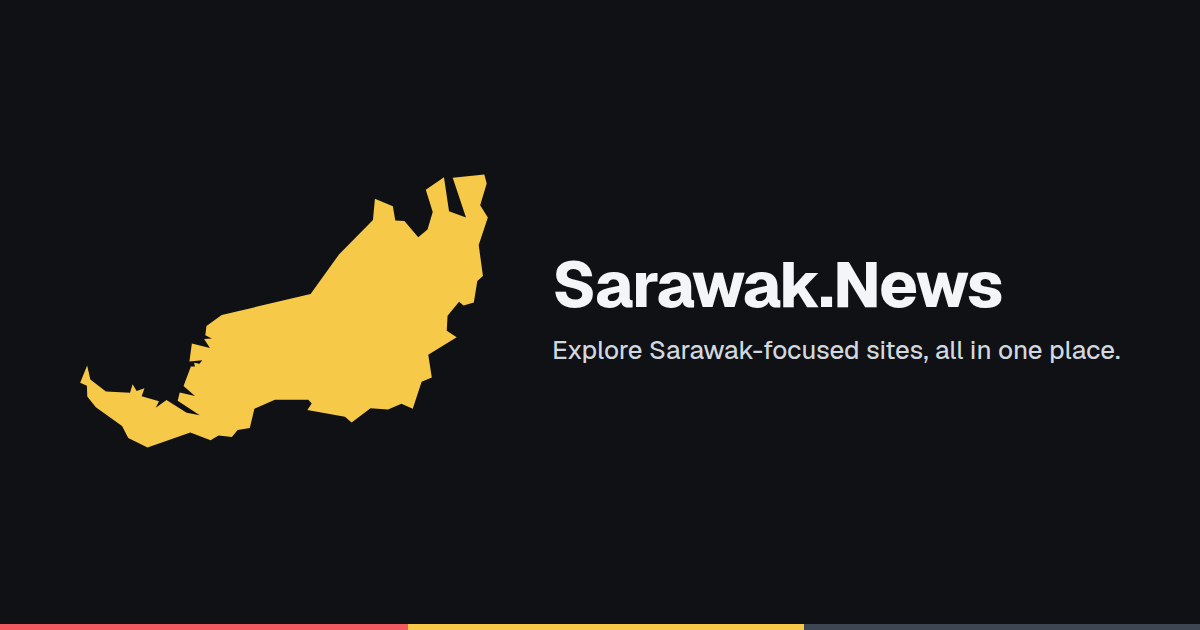
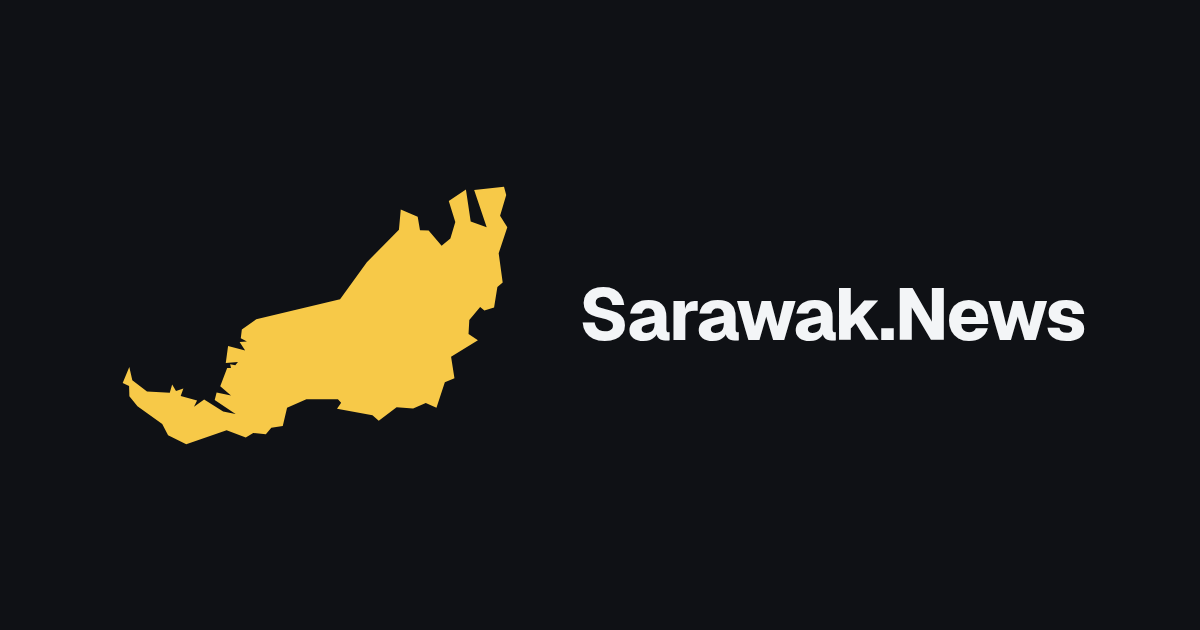
Centre the social card on the map and name. (#14)
Drop the tagline and the bottom rule so the 1200x630 card is just the yellow Sarawak map and Sarawak.News.

Changed region(s): [[0.4625, 0.3921, 0.925, 0.573], [0.0617, 0.2714, 0.4317, 0.7238], [0.0, 0.9651, 1.0, 1.0]]

diff --git a/docs/design.md b/docs/design.md
@@ -27,7 +27,7 @@ The head links the SVG icon, the `.ico` with `sizes="any"`, the Apple touch icon
 
 ## Social image
 
-`site/og.png` is a 1200×630 PNG. The build copies it to `dist/og.png`. The background is the dark canvas `#0f1115` and runs to every edge. The file is RGB, with no alpha and no rounded corners. On the left is the yellow Sarawak map from the F1 mark (`#f7c948`). Beside it, in Geist, are the name Sarawak.News (`#f3f5f7`) and the line “Explore Sarawak-focused sites, all in one place.” (`#d2d8df`). A 6px red / yellow / dark rule sits on the bottom edge, the same colours as the dark header rule.
+`site/og.png` is a 1200×630 PNG. The build copies it to `dist/og.png`. The background is the dark canvas `#0f1115` and runs to every edge. The file is RGB, with no alpha and no rounded corners. Centred in the frame are the yellow Sarawak map from the F1 mark (`#f7c948`) and, beside it, the name Sarawak.News in Geist (`#f3f5f7`). There is no tagline on the card.
 
 Home and About point `og:image` and `twitter:image` at `https://sarawak.news/og.png`. `og:image:width` is 1200 and `og:image:height` is 630. `twitter:card` is `summary_large_image`.
 
